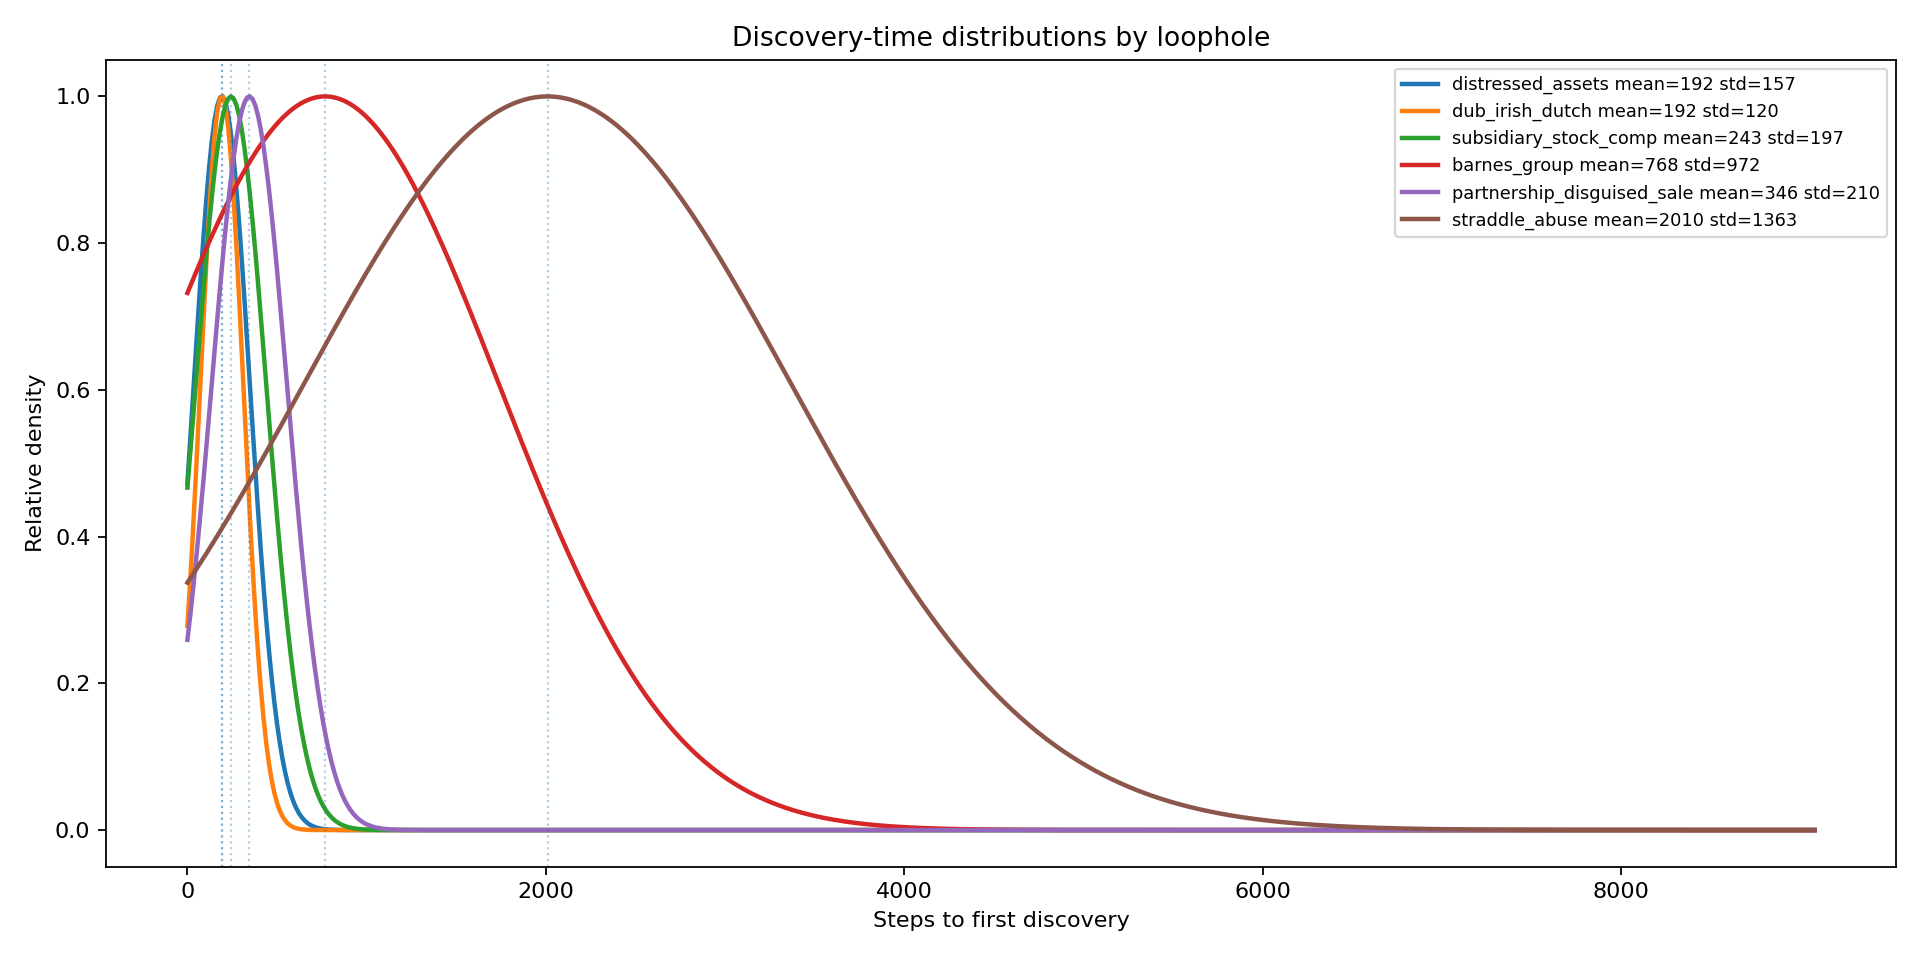
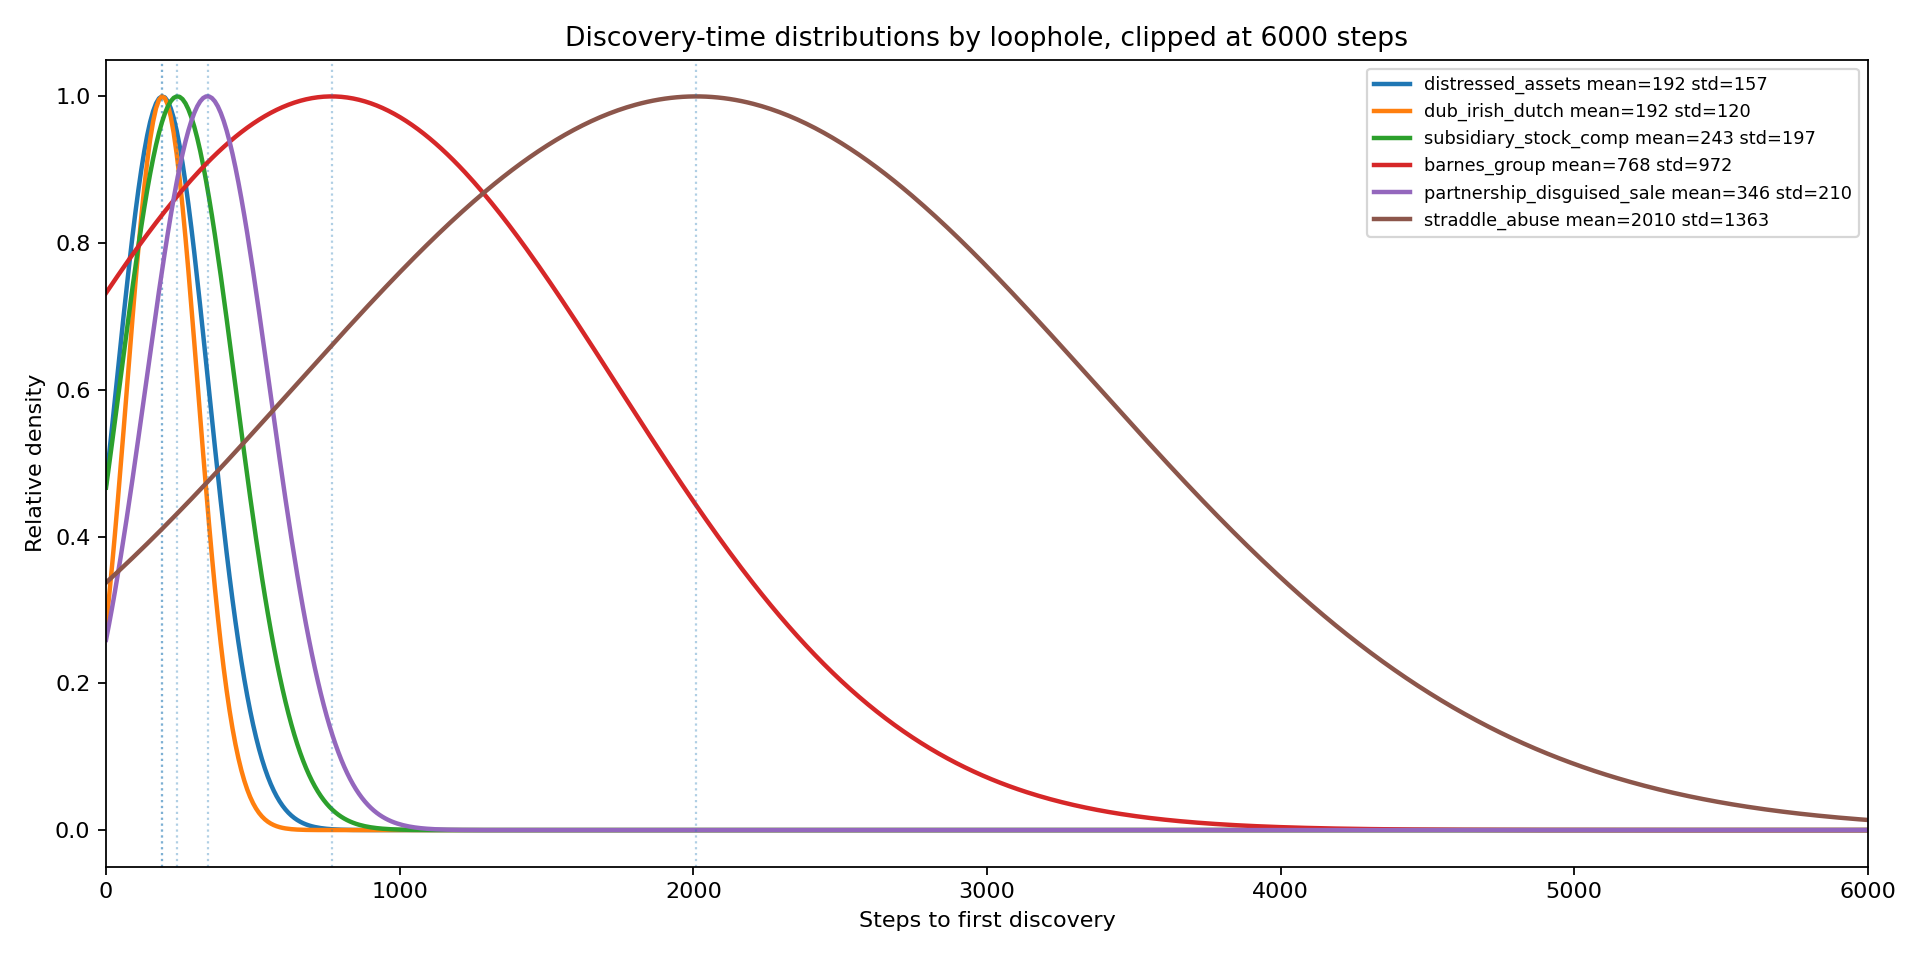
graph

diff --git a/experiments/plot_discovery_gaussians.py b/experiments/plot_discovery_gaussians.py
@@ -58,6 +58,7 @@ def write_discovery_gaussians(
     result_dir: Path,
     output_path: Path,
     points: int,
+    max_steps: int,
 ) -> None:
     runs_path = result_dir / "runs.csv"
     if not runs_path.exists():
@@ -67,11 +68,7 @@ def write_discovery_gaussians(
     if not distributions:
         raise SystemExit("No discovered runs with steps_to_first_discovery found.")
 
-    max_x = max(
-        max(row["steps"]) + 3.0 * row["stddev"]
-        for row in distributions
-    )
-    max_x = max(max_x, 1.0)
+    max_x = max(float(max_steps), 1.0)
     x_values = [
         max_x * i / max(points - 1, 1)
         for i in range(points)
@@ -111,7 +108,8 @@ def write_discovery_gaussians(
 
     plt.xlabel("Steps to first discovery")
     plt.ylabel("Relative density")
-    plt.title("Discovery-time distributions by loophole")
+    plt.xlim(0, max_x)
+    plt.title(f"Discovery-time distributions by loophole, clipped at {max_steps} steps")
     plt.legend(fontsize=8)
     plt.tight_layout()
     plt.savefig(output_path, dpi=160)
@@ -136,12 +134,18 @@ def parse_args() -> argparse.Namespace:
         ),
     )
     parser.add_argument("--points", type=int, default=600)
+    parser.add_argument("--max-steps", type=int, default=6000)
     return parser.parse_args()
 
 
 def main() -> None:
     args = parse_args()
-    write_discovery_gaussians(args.result_dir, args.output_path, args.points)
+    write_discovery_gaussians(
+        args.result_dir,
+        args.output_path,
+        args.points,
+        args.max_steps,
+    )
     print(f"wrote discovery Gaussian plot to {args.output_path.resolve()}")
 
 
